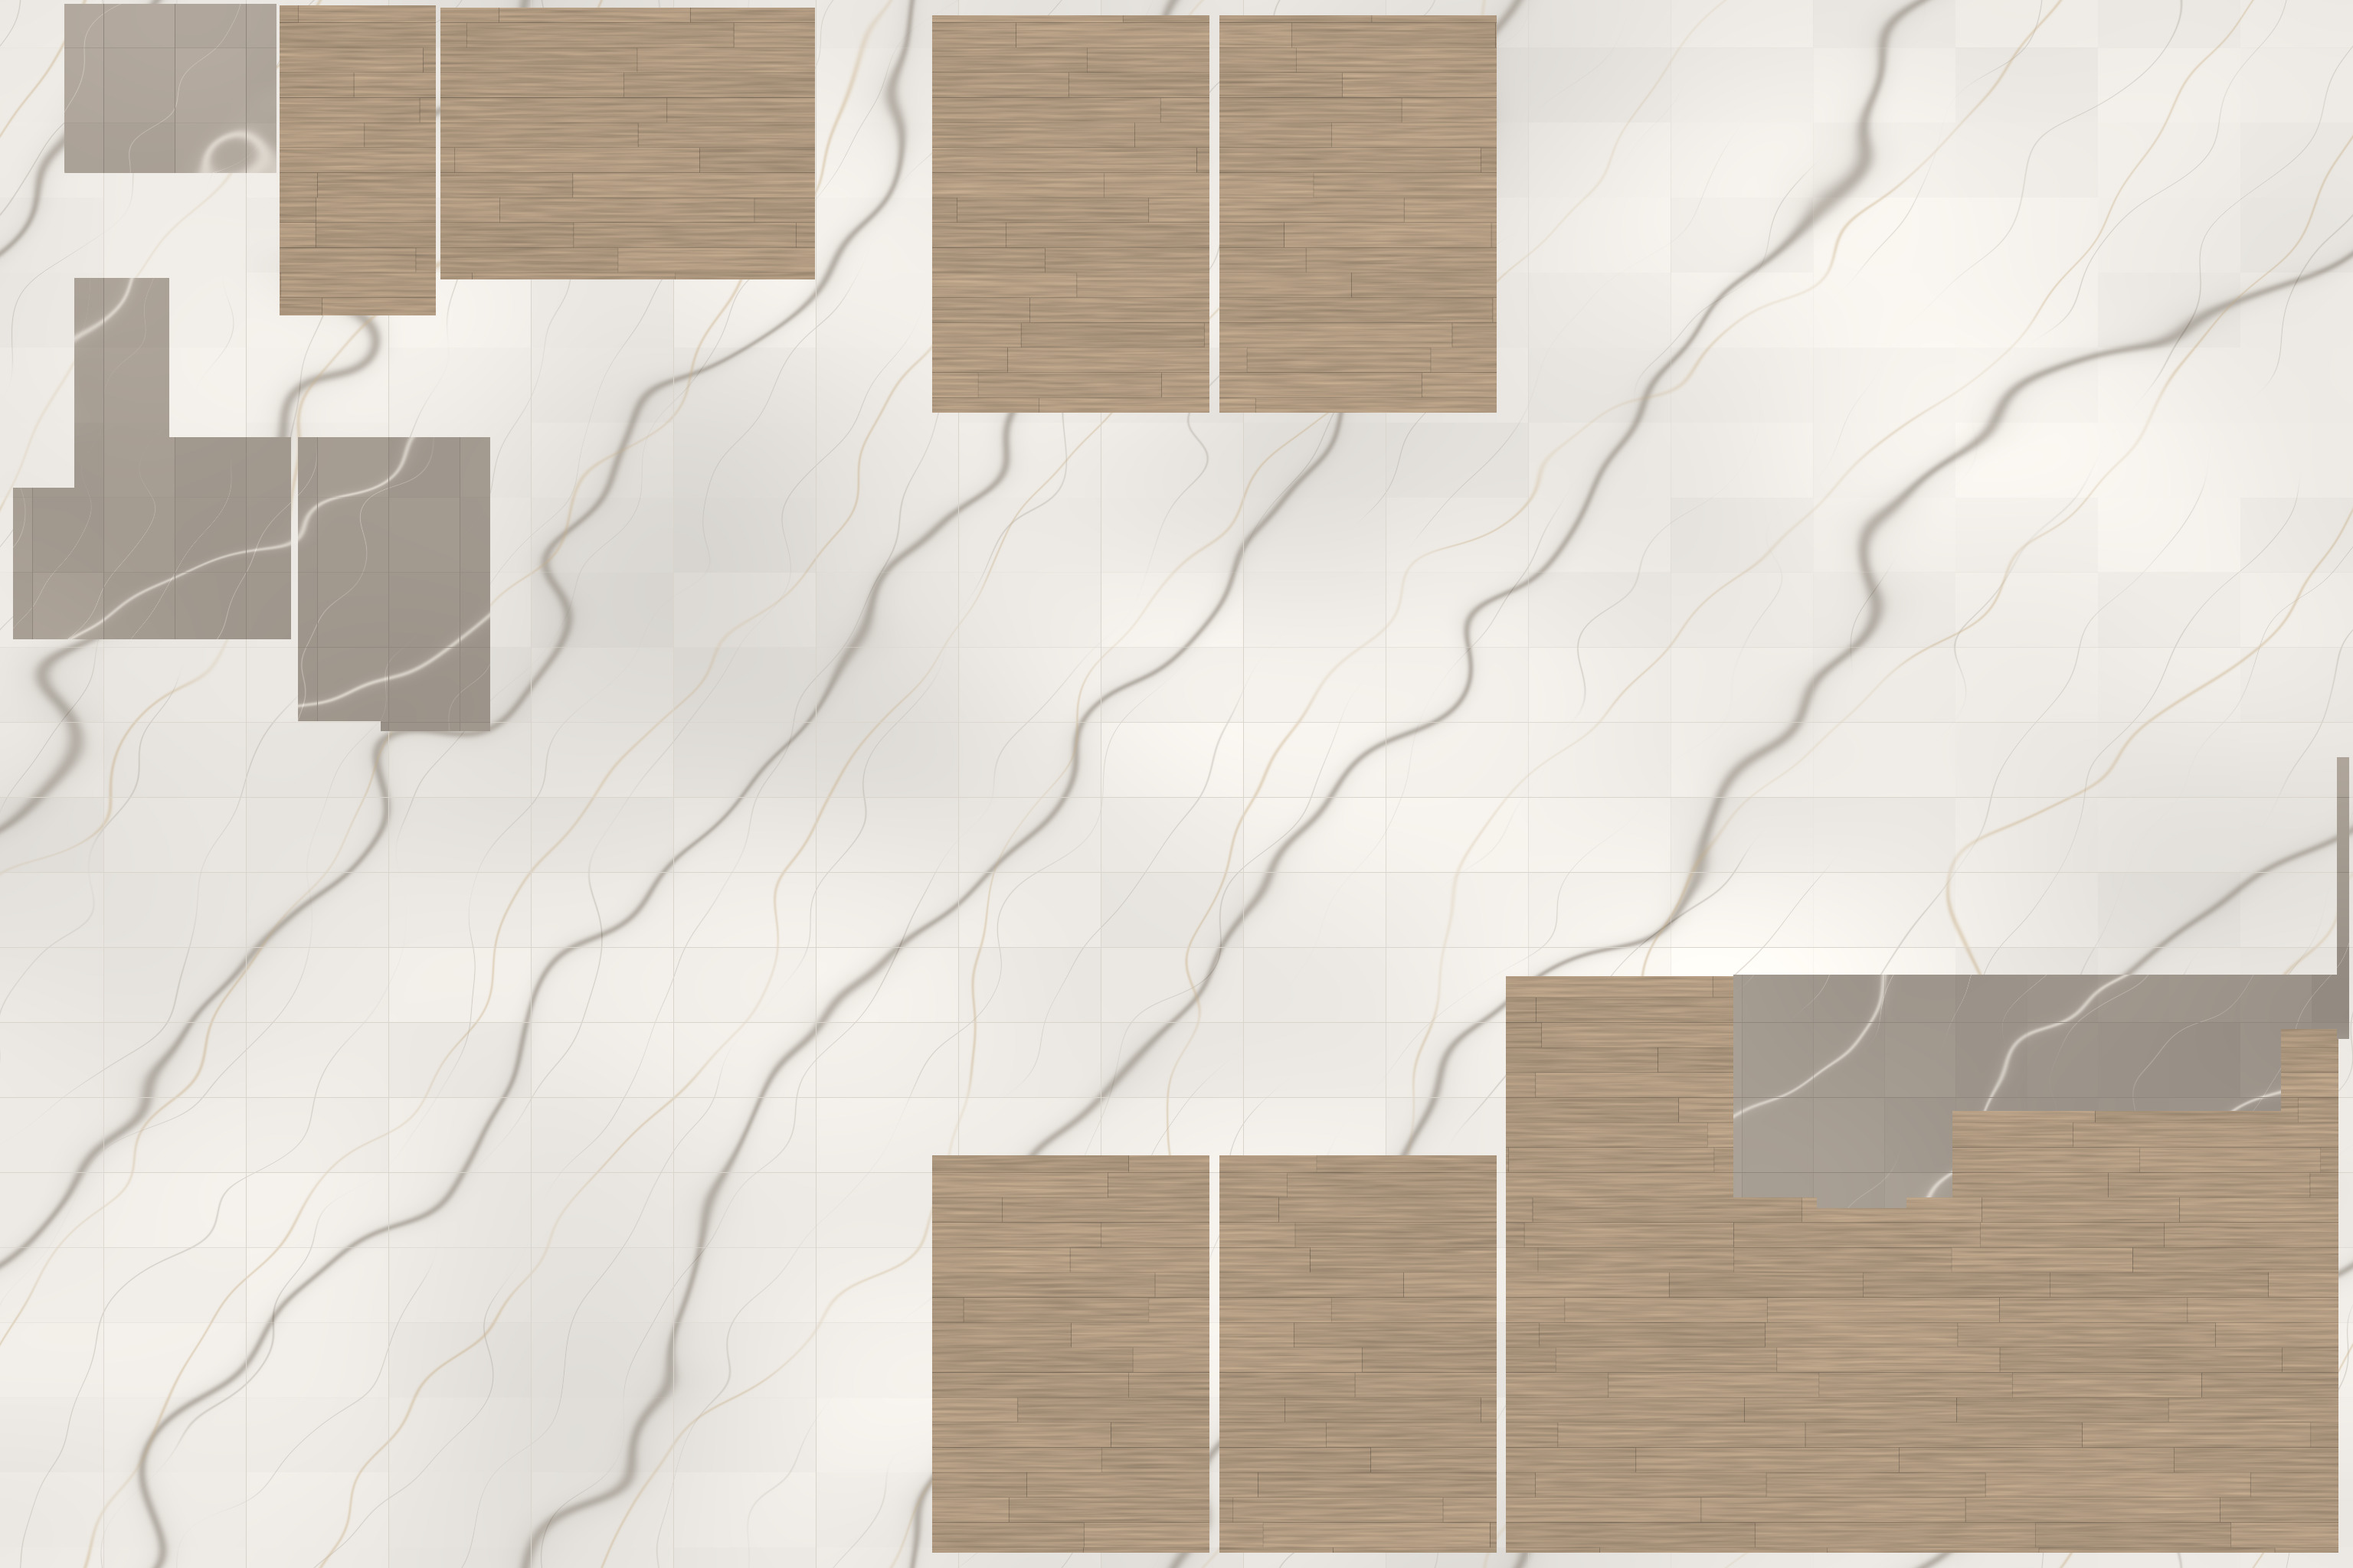
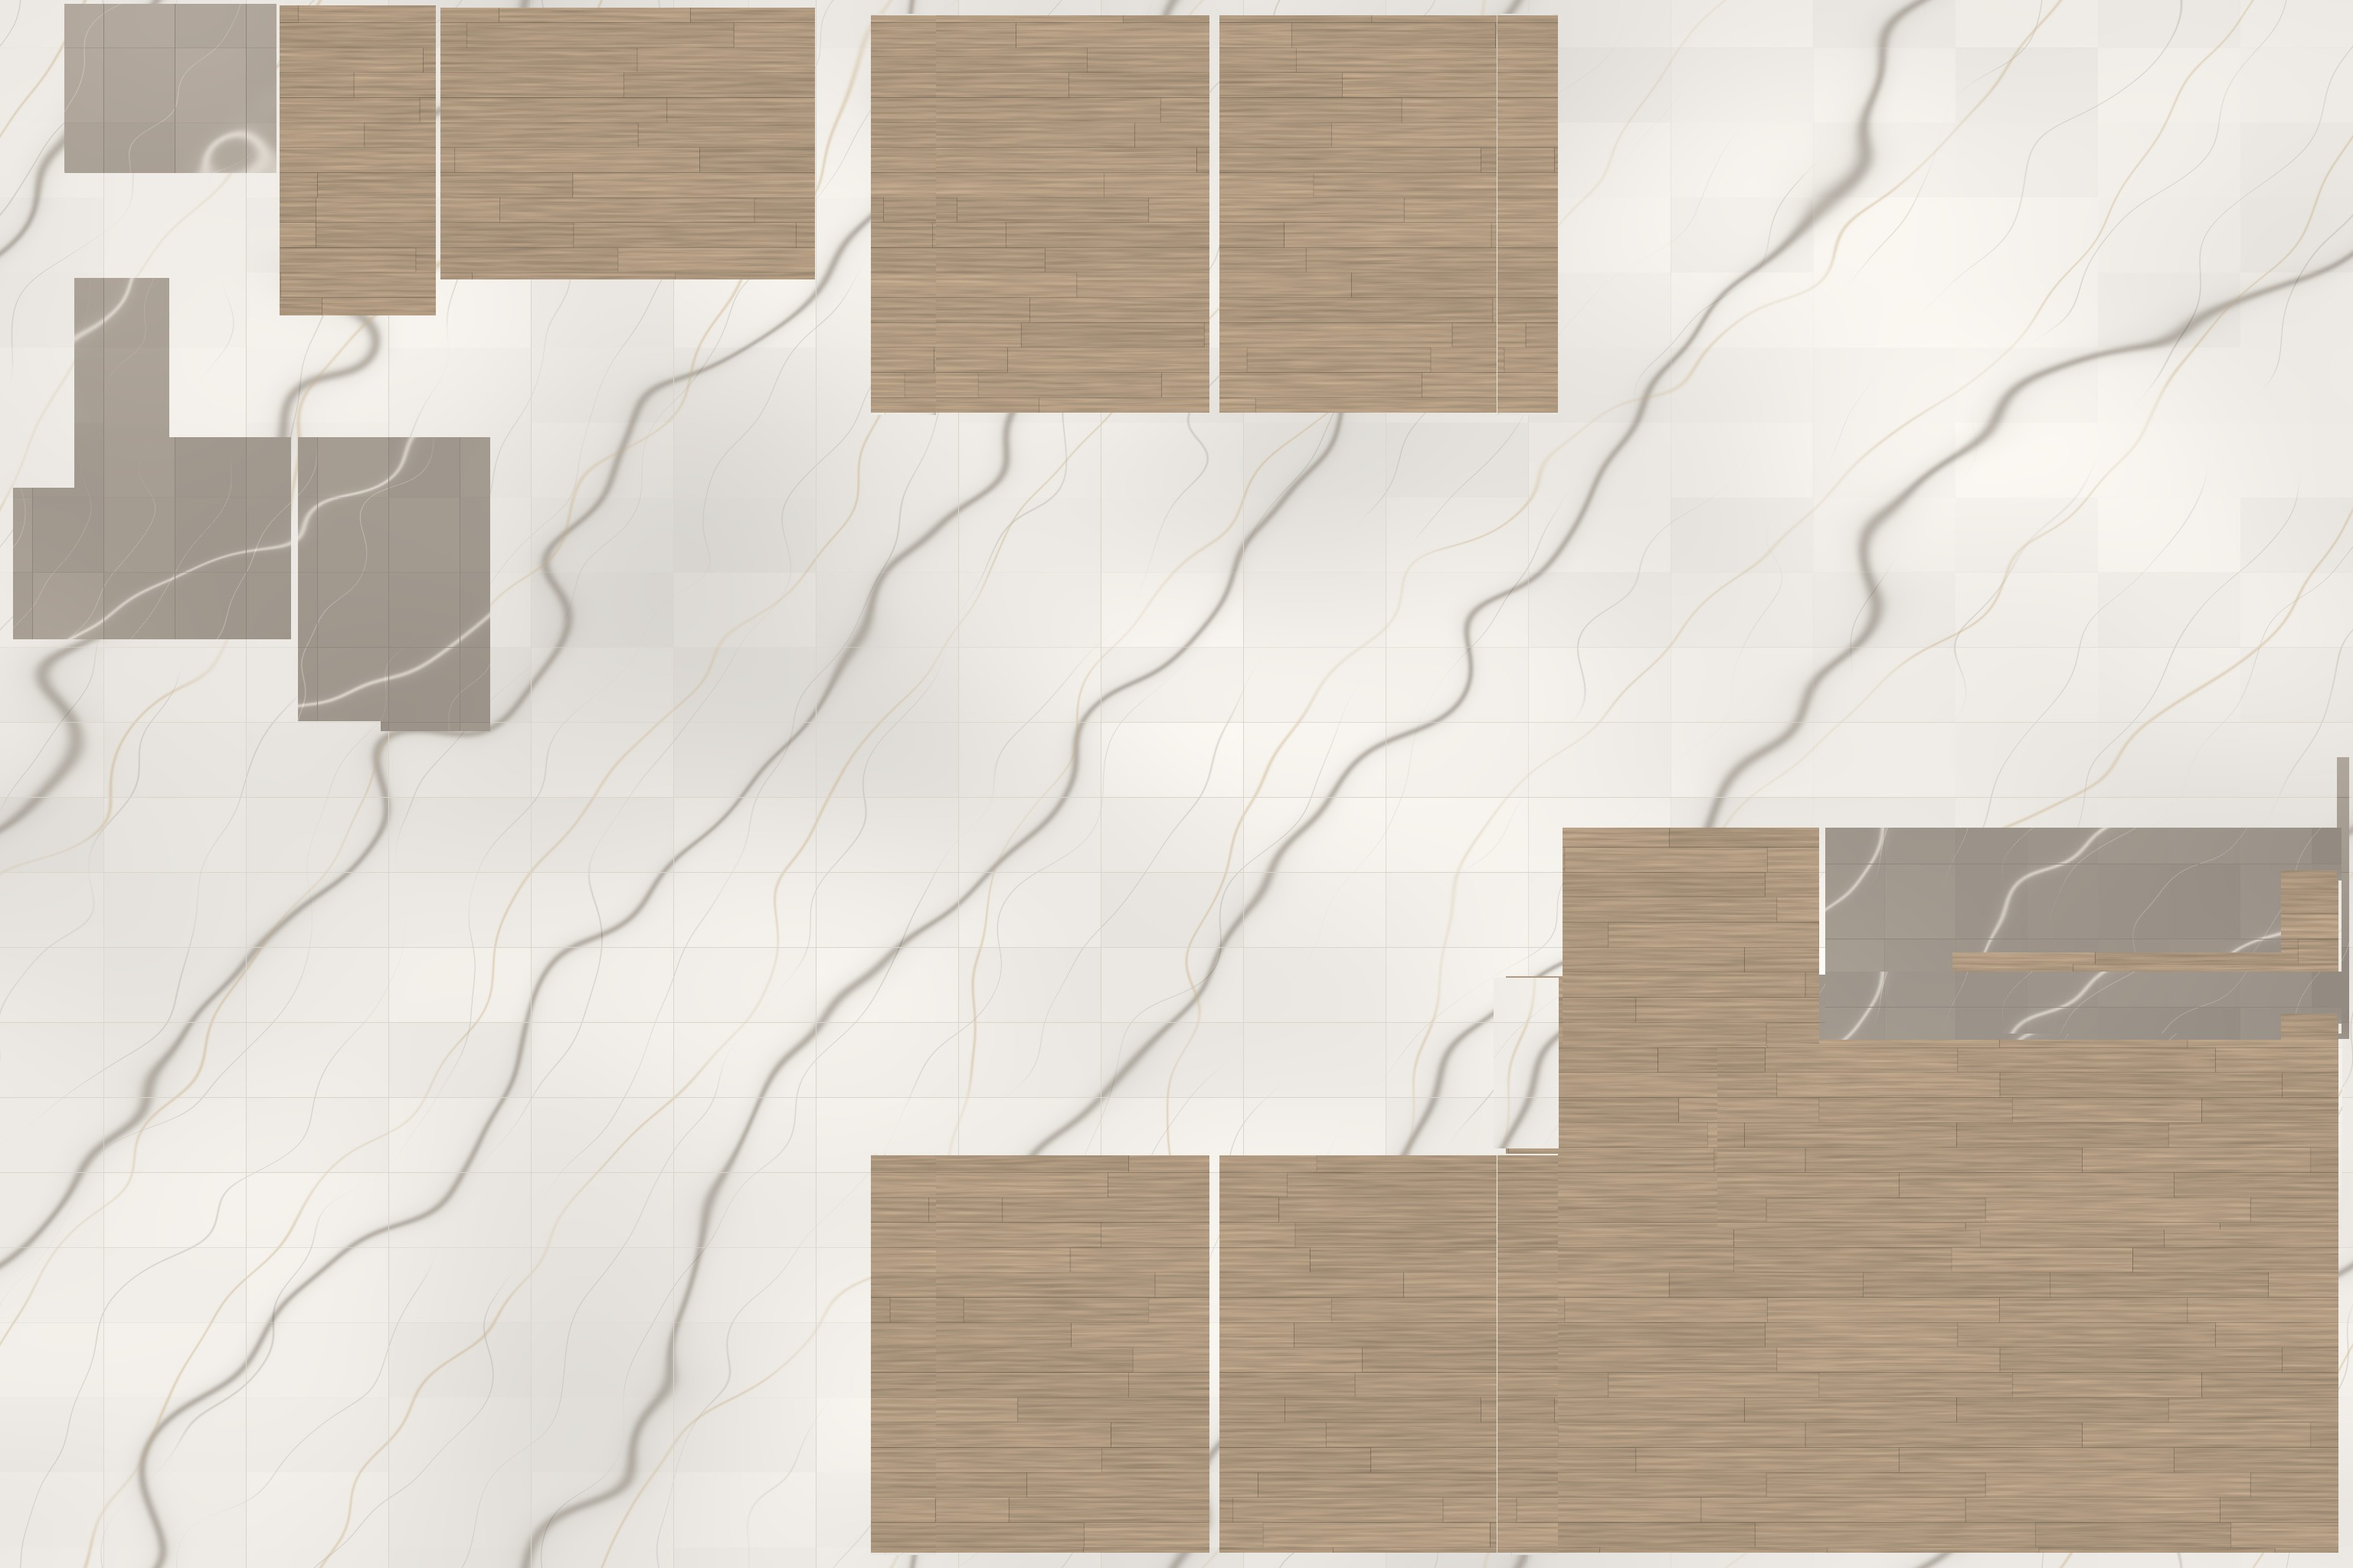
依方案三修訂更新 3D：小孩房加寬、主臥主浴、餐桌主位
- 四間小孩房外牆外推 50（床與衣櫃不動，北右、南左衣櫃與門隨牆移），
  書桌 120 轉向門牆、上方書櫃改成落地書櫃，北左與南右加床頭收納
- 周邊：儲藏間 92→40、廚房高櫃末端縮短 50、餐廳展示櫃移除、
  工作間高櫃改 35 深
- 主臥西牆東移 50 與衣櫃後牆切齊，主浴縮成 381×160
  （雙人面盆台面、馬桶、雙人浴缸），主臥有牆處都做櫃並加電視櫃
- 餐桌主位改到北端、整組東移 20 南移 45，長桌西端縮短 20

Claude-Session: https://claude.ai/code/session_01FiBc3MCRkRMmPxv3yBpHBi

diff --git a/index.html b/index.html
@@ -48,7 +48,7 @@ body.night #stage{background:radial-gradient(ellipse 80% 70% at 50% 42%,var(--ni
 
 <div id="stage" aria-label="第三戶 U3P69A（主臥 A）輕奢風與法式風的 3D 模型，可用手指拖曳轉動"></div>
 <div class="card">
-  <h1>第三戶 主臥 A 3D（輕奢風・法式風）</h1><p id="ver" style="margin:.35em 0 0;font-size:11px;opacity:.6;letter-spacing:.02em">修正版 R12＋街景更新｜2026-11-18</p>
+  <h1>第三戶 主臥 A 3D（輕奢風・法式風）</h1><p id="ver" style="margin:.35em 0 0;font-size:11px;opacity:.6;letter-spacing:.02em">方案三修訂（小孩房加寬・主臥主浴・餐桌）｜2026-11-19</p>
   <div class="ctl">
     <div class="seg" id="styles" role="radiogroup" aria-label="裝潢風格"></div>
     <div class="seg" id="times" role="radiogroup" aria-label="時段"></div>
